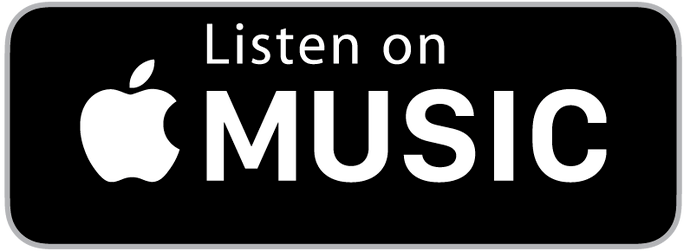
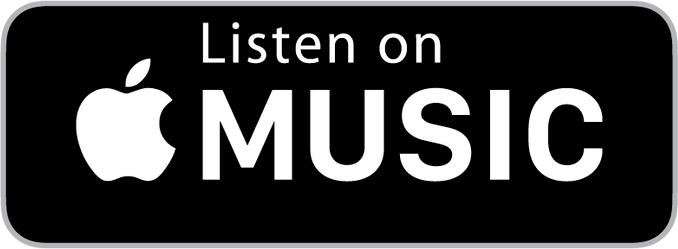
dynamic sizing

diff --git a/millionaire_old.html b/millionaire_old.html
@@ -1,0 +1,48 @@
+<head>
+	<link rel="icon" href="images/album_artwork.ico">
+
+    <style>
+        * {
+            margin: 0;
+            padding: 0;
+        }
+        .imgbox {
+            display: grid;
+            height: 100%;
+        }
+        .center-fit {
+            max-width: 100%;
+            max-height: 100vh;
+            margin: auto;
+        }
+    </style>
+</head>
+
+<body style="background:#000">
+	<p align="center">
+
+		<div class="imgbox">
+    		<img class="center-fit" src='images/millionaire_crop.jpg'>
+		</div>
+		
+		<br>
+
+		<a href="https://open.spotify.com/track/1QL4vitrR4oFEMg1aibYMb?si=LVQvnsb9QW20-Hh_pZOVXg"
+			style="text-decoration: none;">
+		<img 
+			alt="spotify"
+			src="images/spotify.png"
+			width="330" height="136">
+		</a>
+
+		<br>
+
+		<a href="https://music.apple.com/nl/album/millionaire/1539147622?i=1539147626&l=en">
+		<img
+			alt="apple_music"
+			src="images/apple_music.png"
+			width="300" height="109">
+		</a>
+
+	</p>
+</body>

diff --git a/millionaire3.html b/millionaire3.html
@@ -1,0 +1,32 @@
+<head>
+	<link rel="icon" href="images/album_artwork.ico">
+	<link rel="stylesheet" href="styles.css">
+</head>
+
+<div class="container">
+  	<div class="image">
+  		<img src='images/millionaire_crop.jpg'></div>
+
+  	<div class="text">
+    	<h1>Pineapple Road - Millionaire</h1></div>
+
+  	<div class="link">
+			<a href="https://open.spotify.com/track/1QL4vitrR4oFEMg1aibYMb?si=LVQvnsb9QW20-Hh_pZOVXg"
+				style="text-decoration: none;">
+
+		<img
+			alt="spotify"
+			src="images/spotify.png">
+		</a>
+		<br>
+	</div>
+
+  	<div class="link">
+    		<a href="https://music.apple.com/nl/album/millionaire/1539147622?i=1539147626&l=en">
+		<img
+			alt="apple_music"
+			src="images/apple_music.png"
+			width="300" height="109">
+		</a>
+	</div>
+</div>

diff --git a/styles.css b/styles.css
@@ -1,0 +1,34 @@
+body, html {
+  width: 100%;
+  height: 100%;
+  margin: 0;
+}
+
+.container {
+  width: 100%;
+  height: 100%;
+}
+
+.link {
+    width: 100%;
+    height: 10%;
+    float: left;
+    background-color: royalblue;
+    border-collapse: collapse;
+}
+
+.text {
+  width: 100%;
+  height: 10%;
+  position: relative;
+  float: right;
+  background-color: yellow;
+  border-collapse: collapse;
+}
+
+.image {
+  width: 100vh;
+  height: 70vh;
+  border-collapse: collapse;
+  background-color: #4da6ff;
+}
